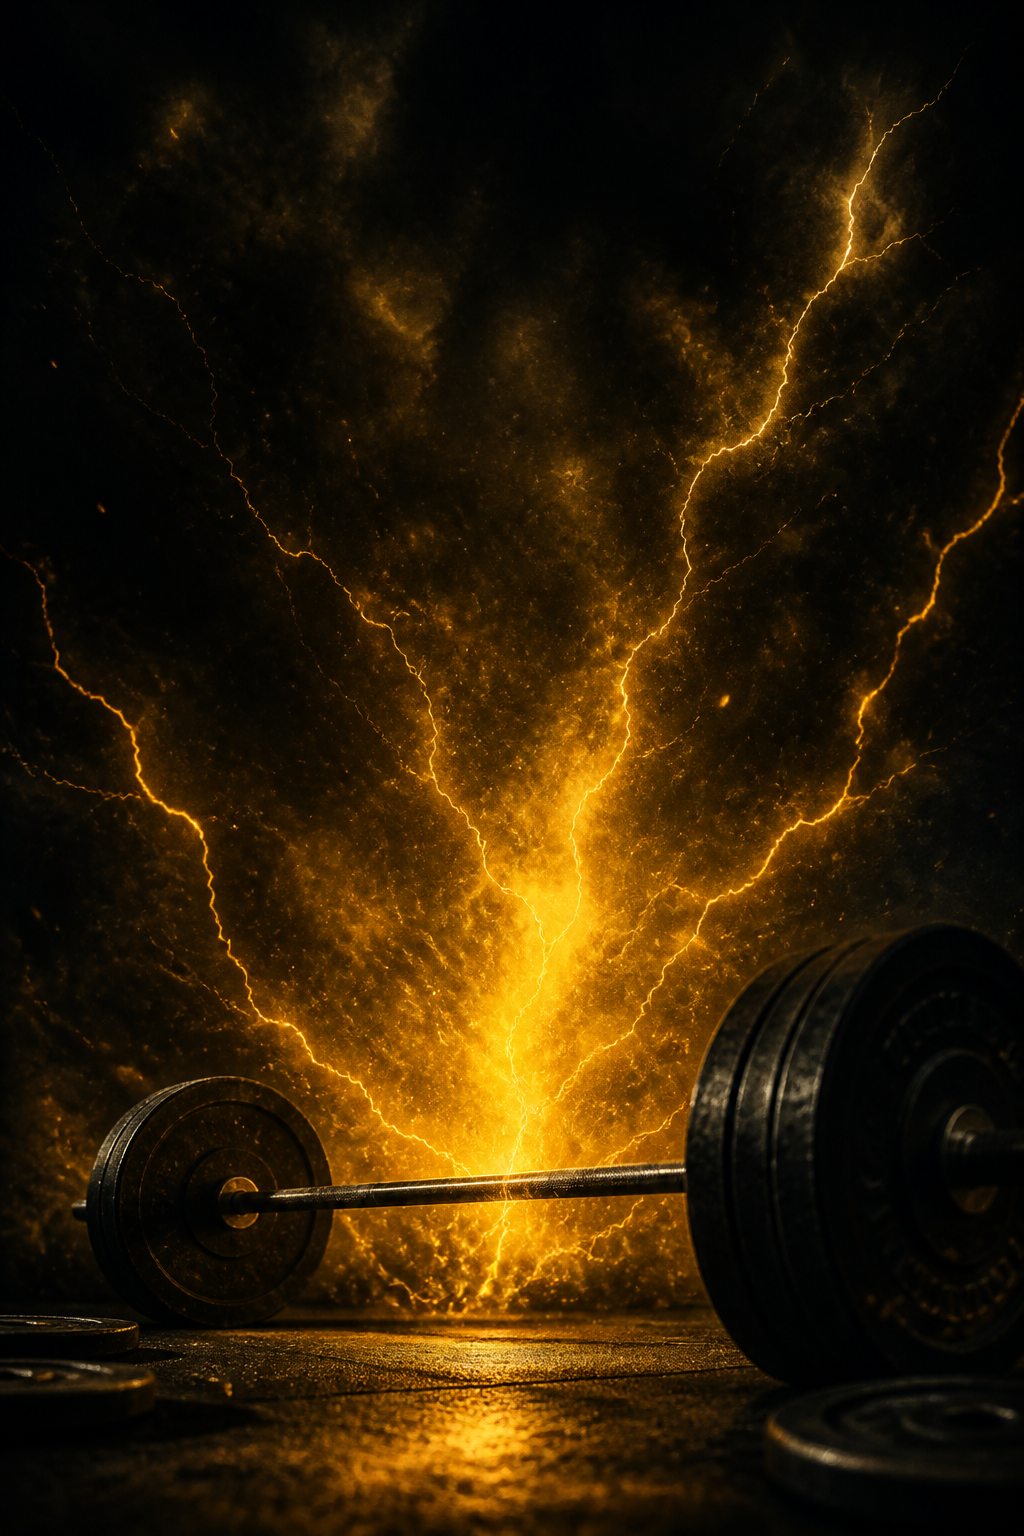
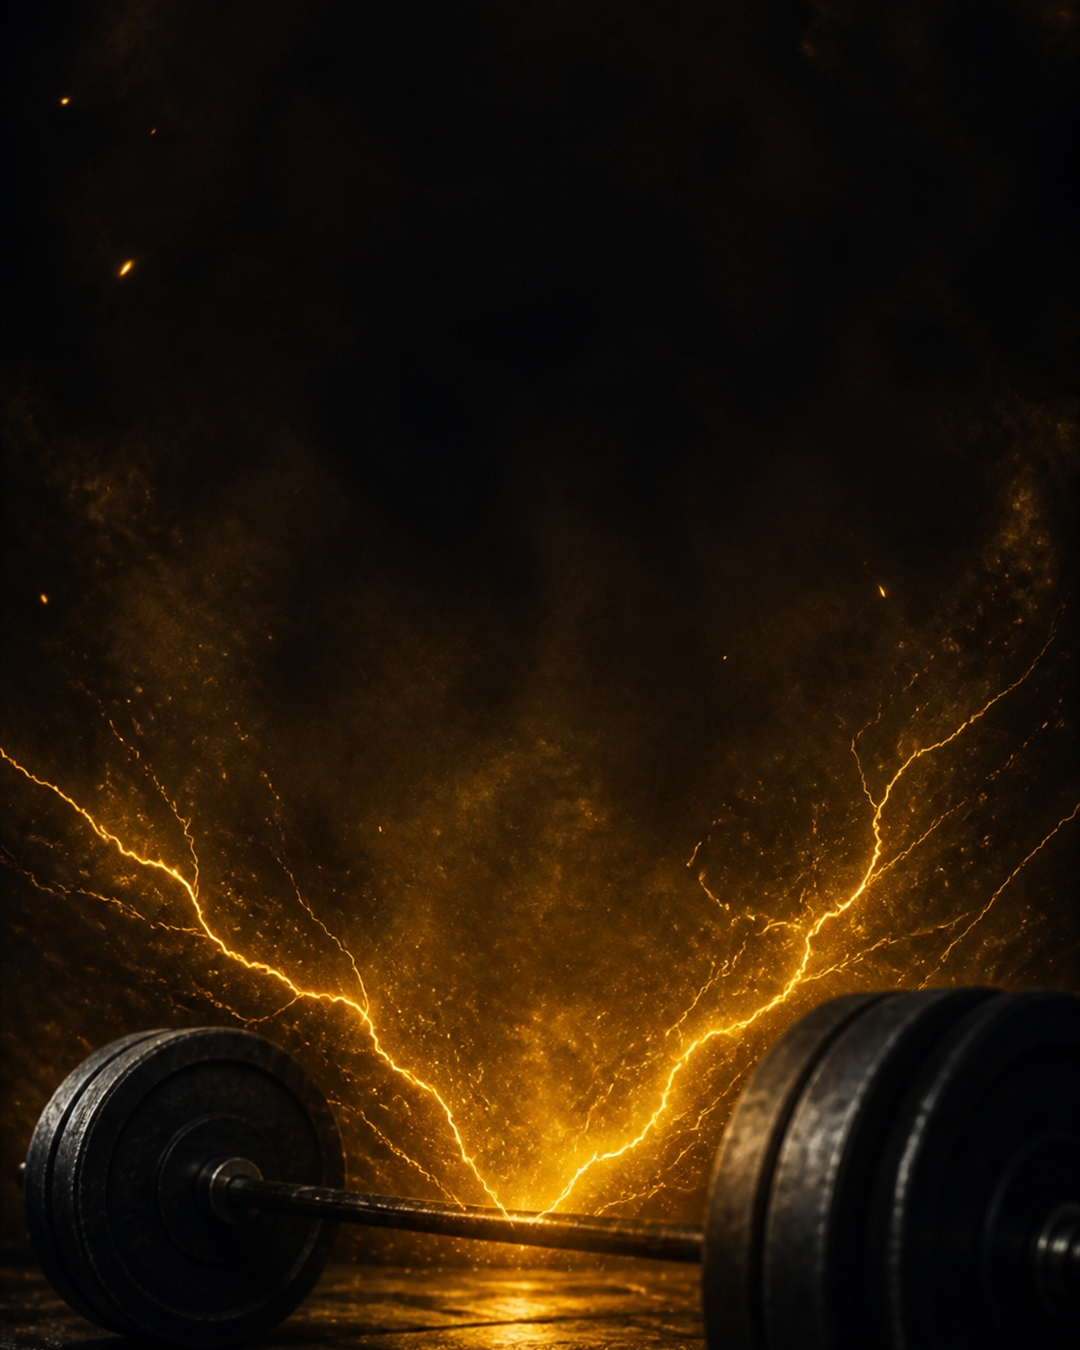
Lock Helchang fortune share card to Instagram 4:5 (1080×1350).
Make export size explicit and resize the share background to match.

diff --git a/frontend/src/utils/fortuneShareCard.ts b/frontend/src/utils/fortuneShareCard.ts
@@ -22,8 +22,13 @@ export interface FortuneShareCardInput {
 const FONT =
   '"Pretendard Variable", Pretendard, "Noto Sans KR", system-ui, -apple-system, "Segoe UI", "Apple Color Emoji", sans-serif';
 
-const W = 1080;
-const H = 1350;
+/** Instagram feed / 공유 카드 표준 4:5 */
+export const FORTUNE_SHARE_ASPECT = '4:5' as const;
+export const FORTUNE_SHARE_WIDTH = 1080;
+export const FORTUNE_SHARE_HEIGHT = 1350;
+
+const W = FORTUNE_SHARE_WIDTH;
+const H = FORTUNE_SHARE_HEIGHT;
 
 const GOLD = '#ffd24a';
 const GOLD_SOFT = '#f6c453';
@@ -305,8 +310,9 @@ function drawHashtagPills(
 export async function buildFortuneShareCard(input: FortuneShareCardInput): Promise<Blob> {
   const { fortune, scores, emoji, themeLabel, dateLabel, labels } = input;
   const canvas = document.createElement('canvas');
-  canvas.width = W;
-  canvas.height = H;
+  // Export pixel size: Instagram 4:5 = 1080 × 1350
+  canvas.width = FORTUNE_SHARE_WIDTH;
+  canvas.height = FORTUNE_SHARE_HEIGHT;
   const ctx = canvas.getContext('2d');
   if (!ctx) throw new Error('Canvas unavailable');
 
